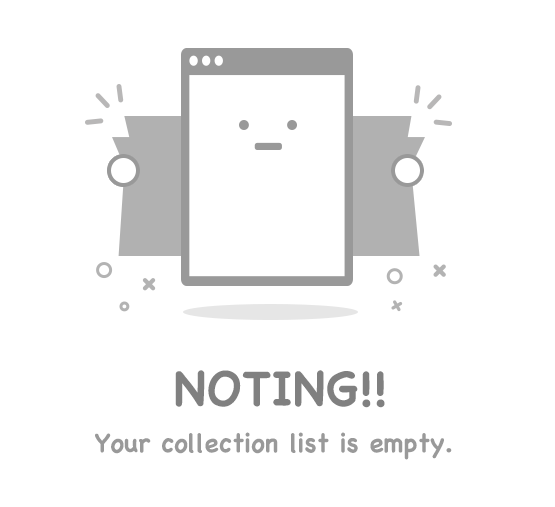
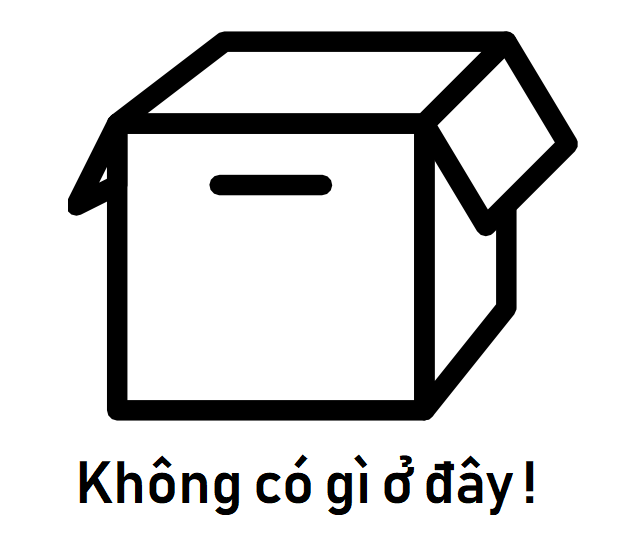
asdasdasdad

diff --git a/client/src/components/admin-dashboard/manage-category/LocationCategory.js b/client/src/components/admin-dashboard/manage-category/LocationCategory.js
@@ -1,8 +1,9 @@
-import React, { Component } from 'react'
+import React, { Component } from 'react';
 import { Card, CardBody, CardHeader, Col, Row, Badge } from 'reactstrap';
-import Spinner from '../../common/Spinner'
+import Spinner from '../../common/Spinner';
 import axios from 'axios';
 import LocationCategoryItem from './LocationCategoryItem';
+import Empty from '../../common/Empty';
 class LocationCategory extends Component {
 
   constructor(props) {
@@ -11,7 +12,9 @@ class LocationCategory extends Component {
       locationCategories: [],
       isLoading: true,
       name: '',
-      newName: ''
+      newName: '',
+      typeLocationEdit:"",
+      typeLocation:''
     }
   }
 
@@ -63,7 +66,7 @@ class LocationCategory extends Component {
       this.refs.addErrMsg.innerHTML = "Vui lòng không bỏ trống!";
       return;
     }
-    const data = { name: this.state.newName }
+    const data = { name: this.state.newName, typeLocation: Number(this.state.typeLocation )}
     axios.post('/api/admin/location/locationCategories', data).then(res => {
       this._requestGetAllLocationCategories();
       this.refs.addErrMsg.innerHTML = "";
@@ -74,7 +77,7 @@ class LocationCategory extends Component {
   }
   deleteHandle = (obj) => {
     this.oldName = obj.name;
-    this.setState({ name: obj.name, itemId: obj.id, deletionFlg: obj.deletionFlag })
+    this.setState({ name: obj.name, itemId: obj.id, deletionFlg: obj.deletionFlag, typeLocationEdit: Number(obj.typeLocation) })
   }
 
   _onSearch = (e) => {
@@ -113,12 +116,15 @@ class LocationCategory extends Component {
   oldName = '';
 
   onChange = (e) => {
-    this.setState({ [e.target.name]: e.target.value });
+    if(e.target.name==="typeLocationEdit")
+      this.setState({ [e.target.name]: Number(e.target.value) });
+    else
+      this.setState({ [e.target.name]: e.target.value });
   }
 
   deleteHandle = (obj) => {
     this.oldName = obj.name;
-    this.setState({ name: obj.name, itemId: obj.id, deletionFlg: obj.deletionFlag })
+    this.setState({ name: obj.name, itemId: obj.id, deletionFlg: obj.deletionFlag,typeLocationEdit:obj.typeLocation })
   }
 
   _filter = (val) => {
@@ -157,19 +163,19 @@ class LocationCategory extends Component {
             <Card >
               <CardHeader>
                 <div className="form-group row" >
-                  <input className="form-control col-sm-2" placeholder="Tìm theo tên" onChange={this._onSearch} name="name" />
+                  <input className="form-control col-sm-2" placeholder="Tìm theo tên" onChange={this._onSearch} name="name" style={{marginLeft:30,marginRight:20,marginTop:-5}}/>
                  <div style={{display:"none"}}>
                  <div className="form-check form-check-inline">
-                    <input className="form-check-input" onClick={this._filterByStatus} type="checkbox" id="inlineCheckbox1" ref='all' name="all" checked disabled/>
-                    <label className="form-check-label" for="inlineCheckbox1">Tất cả</label>
+                    <input className="form-check-input" onClick={this._filterByStatus} type="checkbox" id="inlineCheckbox1"  ref='all' name="all" />
+                    <label className="form-check-label" htmlFor="inlineCheckbox1">Tất cả</label>
                   </div>
                   <div className="form-check form-check-inline">
                     <input className="form-check-input" onClick={this._filterByStatus} type="checkbox" id="inlineCheckbox2" ref='on' name="on"/>
-                    <label className="form-check-label" for="inlineCheckbox2">Hoạt động</label>
+                    <label className="form-check-label" htmlFor="inlineCheckbox2">Hoạt động</label>
                   </div>
                   <div className="form-check form-check-inline">
                     <input className="form-check-input" onClick={this._filterByStatus} type="checkbox" id="inlineCheckbox3" ref='off' name="off"/>
-                    <label className="form-check-label" for="inlineCheckbox3">Không hoạt động</label>
+                    <label className="form-check-label" htmlFor="inlineCheckbox3">Không hoạt động</label>
                   </div>
                  </div>
                   <div className="card-header-actions">
@@ -181,8 +187,8 @@ class LocationCategory extends Component {
           </Col></Row>
         <div ref="search">
           <Row>
-            {locationCategories === null || isLoading ? <Spinner /> :
-              locationCategories.map((item, index) => (<LocationCategoryItem onDeleteHandle={this.deleteHandle} locationCate={item} key={index} />))}
+            {locationCategories === null || isLoading ? <Spinner /> :(locationCategories.length === 0? <Empty/> :
+              locationCategories.map((item, index) => (<LocationCategoryItem onDeleteHandle={this.deleteHandle} locationCate={item} key={index} />)))}
           </Row>
           <div className="modal fade" id="deleteModalLocation" tabIndex="-1" role="dialog" aria-labelledby="exampleModalLabel" aria-hidden="true">
             <div className="modal-dialog" role="document">
@@ -207,7 +213,21 @@ class LocationCategory extends Component {
                 <div className="modal-body">
                   <input className="form-control" onChange={this.onChange} name="name" value={this.state.name} />
                   <small ref='editErrMsg' className="" style={{ color: 'red' }}></small>
+                  <br/>
+                  <div class="form-check">
+                    <input class="form-check-input" type="radio" name="typeLocationEdit" ref="publicEditL" onChange={this.onChange} checked={this.state.typeLocationEdit ===2} id="publicLocation" value="2"/>
+                    <label class="form-check-label" htmlFor="publicLocation">
+                      Địa điểm công cộng
+                    </label>
+                  </div>
+                  <div class="form-check">
+                    <input class="form-check-input" type="radio" name="typeLocationEdit" ref="privateEditL" onChange={this.onChange} checked={this.state.typeLocationEdit ===1} id="privateLocaton" value="1"/>
+                    <label class="form-check-label" htmlFor="privateLocaton">
+                      Địa điểm cá nhân
+                    </label>
+                  </div>
                 </div>
+                
                 <div className="modal-footer">
                   <button type="button" className="btn btn-secondary" data-dismiss="modal">Hủy</button>
                   <button type="button" onClick={this._onChangeNameCategory} className="btn btn-primary">Đồng ý</button>
@@ -224,6 +244,20 @@ class LocationCategory extends Component {
                 </div>
                 <div className="modal-body">
                   <input className="form-control" onChange={this.onChange} name="newName" placeholder="nhập tên ..." value={this.state.newName} />
+                  <small ref='addErrMsg' className="" style={{ color: 'red' }}></small>
+                  <br/>
+                  <div class="form-check">
+                    <input class="form-check-input" type="radio" name="typeLocation" onChange={this.onChange} id="publicLocation1" value="2" defaultChecked/>
+                    <label class="form-check-label" htmlFor="publicLocation1">
+                      Địa điểm công cộng
+                    </label>
+                  </div>
+                  <div class="form-check">
+                    <input class="form-check-input" type="radio" name="typeLocation" onChange={this.onChange} id="privateLocaton1" value="1"/>
+                    <label class="form-check-label" htmlFor="privateLocaton1">
+                      Địa điểm cá nhân
+                    </label>
+                  </div>
                   <small ref='addErrMsg' className="" style={{ color: 'red' }}></small>
                 </div>
                 <div className="modal-footer">

diff --git a/client/src/components/admin-dashboard/manage-category/PostCategory.js b/client/src/components/admin-dashboard/manage-category/PostCategory.js
@@ -1,8 +1,9 @@
-import React, { Component } from 'react'
+import React, { Component } from 'react';
 import { Card, CardBody, CardHeader, Col, Row, Badge } from 'reactstrap';
-import Spinner from '../../common/Spinner'
+import Spinner from '../../common/Spinner';
 import axios from 'axios';
-import PostCategoryItem from './PostCategoryIttem'
+import PostCategoryItem from './PostCategoryIttem';
+import Empty from '../../common/Empty';
 class PostCategory extends Component {
 
   constructor(props) {
@@ -126,23 +127,23 @@ class PostCategory extends Component {
             <Card >
               <CardHeader>
                 <div className="form-group row" >
-                  <input className="form-control col-sm-2 " placeholder="Tìm theo tên" onChange={this._onSearch} name="name" />
+                  <input className="form-control col-sm-2 " placeholder="Tìm theo tên" onChange={this._onSearch} name="name" style={{marginLeft:30,marginRight:20,marginTop:-5}}/>
                   <div style={{display:"none"}}>
                   <div className="form-check">
-                    <input className="form-check-input" ref='all' onClick={this._filterByStatus} type="radio" name="exampleRadios" id="all" value="option1" checked/>
-                    <label className="form-check-label" for="all">
+                    <input className="form-check-input" ref='all' onClick={this._filterByStatus} type="radio" name="exampleRadios" id="all" value="option1"/>
+                    <label className="form-check-label" htmlFor="all">
                     Tất cả
                     </label>
                   </div>
                   <div className="form-check">
                     <input className="form-check-input"  ref='on' onClick={this._filterByStatus} type="radio" name="exampleRadios" id="on" value="option2"/>
-                    <label className="form-check-label" for="on">
+                    <label className="form-check-label" htmlFor="on">
                     Hoạt động
                     </label>
                   </div>
                   <div className="form-check disabled">
                     <input className="form-check-input" ref='off' onClick={this._filterByStatus} type="radio" name="exampleRadios" id="off" value="option3"/>
-                    <label className="form-check-label" for="off">
+                    <label className="form-check-label" htmlFor="off">
                     Không hoạt động
                     </label>
                   </div></div>
@@ -155,8 +156,8 @@ class PostCategory extends Component {
           </Col></Row>
         <div ref="tesst">
           <Row >
-            {categories === null || isLoading ? <Spinner /> :
-              categories.map((item, index) => (<PostCategoryItem onDeleteHandle={this.deleteHandle} postCate={item} key={index} />))}
+            {categories === null || isLoading ? <Spinner /> :(categories.length === 0? <Empty/> :
+              categories.map((item, index) => (<PostCategoryItem onDeleteHandle={this.deleteHandle} postCate={item} key={index} />)))}
           </Row>
         </div>
         <div className="modal fade" id="exampleModal" tabIndex="-1" role="dialog" aria-labelledby="exampleModalLabel" aria-hidden="true">

diff --git a/client/src/components/admin-dashboard/manage-reports/ReportList.js b/client/src/components/admin-dashboard/manage-reports/ReportList.js
@@ -7,7 +7,7 @@ import {getAllUsers} from '../../../store/actions/usersActions'
 import Spinner from '../../common/Spinner'
 import ReportItem from './ReportItem'
 import axios from 'axios';
-
+import Empty from '../../common/Empty';
 class ReportList extends Component {
 
   constructor(props){
@@ -17,7 +17,8 @@ class ReportList extends Component {
       deletionFlag: false,
       reports : [],
       detail: null,
-      rqDetail: []
+      rqDetail: [],
+      isLoading: true
     }
   }
 
@@ -93,24 +94,24 @@ class ReportList extends Component {
                   value={this.state.search}/>
               </CardHeader>
               <CardBody>
-              { reports === null  ? <Spinner /> :
+              { this.state.isLoading ? <Spinner /> :(reports.length === 0? <Empty/> :
+
                 <Table hover responsive >
                   <thead>
                   <tr>
-                    <th>Nội dung bài viết</th>
+                    <th>Nội dung bài viết{reports.length}</th>
                     <th>Người viết</th>
                     <th>Ngày đăng</th>
                     <th>Số lần bị reports</th>
                     <th>Trạng thái</th>
                     <th style={{width:'9%'}}>Xử lý người dùng này</th>
-                    <th></th>
-                  </tr>
+                    <th></th></tr>
                   </thead>
                   <tbody ref="tableSearch">
                     { reports.map((item, index) =>
                       item.postDetail.length !==0 ? <ReportItem onShowDetail={this.detailHandle} reportDetail={item.postDetail[0]} index={index} totalReports={item.totalReport}/>:'')}
                   </tbody>
-                </Table>
+                </Table>)
                 }
               </CardBody>
             </Card>

diff --git a/client/src/components/admin-dashboard/manage-location/LocationAdmin.js b/client/src/components/admin-dashboard/manage-location/LocationAdmin.js
@@ -3,7 +3,7 @@ import { Card, CardBody, CardHeader, Col, Row, Table, Button } from 'reactstrap'
 import Spinner from '../../common/Spinner'
 import LocationItem from './LocationItem'
 import axios from 'axios';
-
+import Empty from '../../common/Empty';
 class LocationAdmin extends Component {
 
   constructor(props) {
@@ -11,7 +11,8 @@ class LocationAdmin extends Component {
     this.state = {
       userId: '',
       deletionFlag: false,
-      locations: []
+      locations: [],
+      isLoading: true
     }
   }
 
@@ -70,7 +71,7 @@ class LocationAdmin extends Component {
                 <Button color="primary" style={{ float: "right", marginRight: 20 }} size="lg" onClick={this._onClickAddLocation}>Thêm địa điểm</Button>
               </CardHeader>
               <CardBody>
-                {locations === null ? <Spinner /> :
+                {this.state.isLoading ? <Spinner /> :(locations.length === 0? <Empty/> :
                   <Table hover responsive >
                     <thead>
                       <tr>
@@ -88,7 +89,7 @@ class LocationAdmin extends Component {
                       {locations.map((item, index) =>
                         <LocationItem location={item} key={index} />)}
                     </tbody>
-                  </Table>
+                  </Table>)
                 }
               </CardBody>
             </Card>

diff --git a/client/src/components/admin-dashboard/manage-location/LocationItem.js b/client/src/components/admin-dashboard/manage-location/LocationItem.js
@@ -60,7 +60,6 @@ class LocationItem extends Component {
         maxRate.push(0);
       }
     }
-    console.log(maxRate)
     const date = new Date(location.updatedAt).toLocaleDateString() + ' ' + new Date(location.updatedAt).toLocaleTimeString();
     return (
       <tr key={key} style= {this.state.isLoading ?{opacity:0.4}:{opacity:1}} onClick={this._showModal}>
@@ -68,7 +67,7 @@ class LocationItem extends Component {
         <td style={{verticalAlign:"middle"}}>{location.address}</td>
         <td style={{verticalAlign:"middle"}}>{location.description}</td>
         <td style={{verticalAlign:"middle"}}>{location.typeId.name}</td>
-        <td style={{color:"orange"}}>{maxRate.map(item => item === 1? <i class="fas fa-star"></i>: (item === 0.5 ? <i class="fas fa-star-half-alt"></i>:<span style={{color:'#c8ced3'}}><i class="fas fa-star"></i></span>))}</td>
+        <td style={{color:"orange"}}>{maxRate.map(item => item === 1? <i className="fas fa-star"></i>: (item === 0.5 ? <i className="fas fa-star-half-alt"></i>:<span style={{color:'#c8ced3'}}><i className="fas fa-star"></i></span>))}</td>
         <td style={{verticalAlign:"middle"}}><Badge color={style}>{text}</Badge></td>
         {/* <td style={{verticalAlign:"middle"}}>
         <div>{userDetail.appName}</div>

diff --git a/services/LocationService.js b/services/LocationService.js
@@ -42,12 +42,12 @@ const getLocationCategories = async () => {
 };
 module.exports.getLocationCategories = getLocationCategories;
 
-const addLocationCategory = async val => {
+const addLocationCategory = async (val, type) => {
   try {
     const nameExisted = await findByName(val);
     if (nameExisted) throw ("Đã có loại địa điểm này");
     // const category = new LocationCategory();
-    const result = await LocationCategory.create({ name: val , typeLocation: constants.PRIVATE_LOCATION});
+    const result = await LocationCategory.create({ name: val , typeLocation: type});
     return result;
   } catch (error) {
     console.log(error)

diff --git a/client/src/components/admin-dashboard/manage-category/LocationCategoryItem.js b/client/src/components/admin-dashboard/manage-category/LocationCategoryItem.js
@@ -17,7 +17,7 @@ class LocationCategoryItem extends Component {
   componentDidMount() {
   }
   _deleteItem = () => {
-    this.props.onDeleteHandle({ id: this.props.locationCate._id, deletionFlag: this.props.locationCate.hiddenFlag, name: this.props.locationCate.name });
+    this.props.onDeleteHandle({ id: this.props.locationCate._id, deletionFlag: this.props.locationCate.hiddenFlag, name: this.props.locationCate.name,typeLocation: this.props.locationCate.typeLocation });
   }
 
   render() {

diff --git a/client/src/components/admin-dashboard/manage-reports/ReportItem.js b/client/src/components/admin-dashboard/manage-reports/ReportItem.js
@@ -71,7 +71,8 @@ class ReportItem extends Component {
     const style = deletionFlag !==1 ? "secondary" : "danger";
     const text = deletionFlag !==1? "Chưa xử lý" : "Đã xử lý";
     let owerName= []
-    const {reportDetail, totalReports,owner} = this.props;
+    const {reportDetail, totalReports} = this.props;
+    console.log(reportDetail)
     if(users.allusers.users !== undefined){
       owerName = users.allusers.users.filter(item => item._id === reportDetail.ownerId )
     }

diff --git a/controllers/LocationController.js b/controllers/LocationController.js
@@ -53,7 +53,7 @@ module.exports.updateLocationCategories = updateLocationCategories;
 const addLocationCategory = async function (req, res) {
   res.setHeader('Content-Type', 'application/json');
   try {
-    const result = await locationService.addLocationCategory(req.body.name);
+    const result = await locationService.addLocationCategory(req.body.name,req.body.typeLocation);
     // console.log('>> ', result)
     return ReS(res, { result }, 200);
   } catch (error) {
